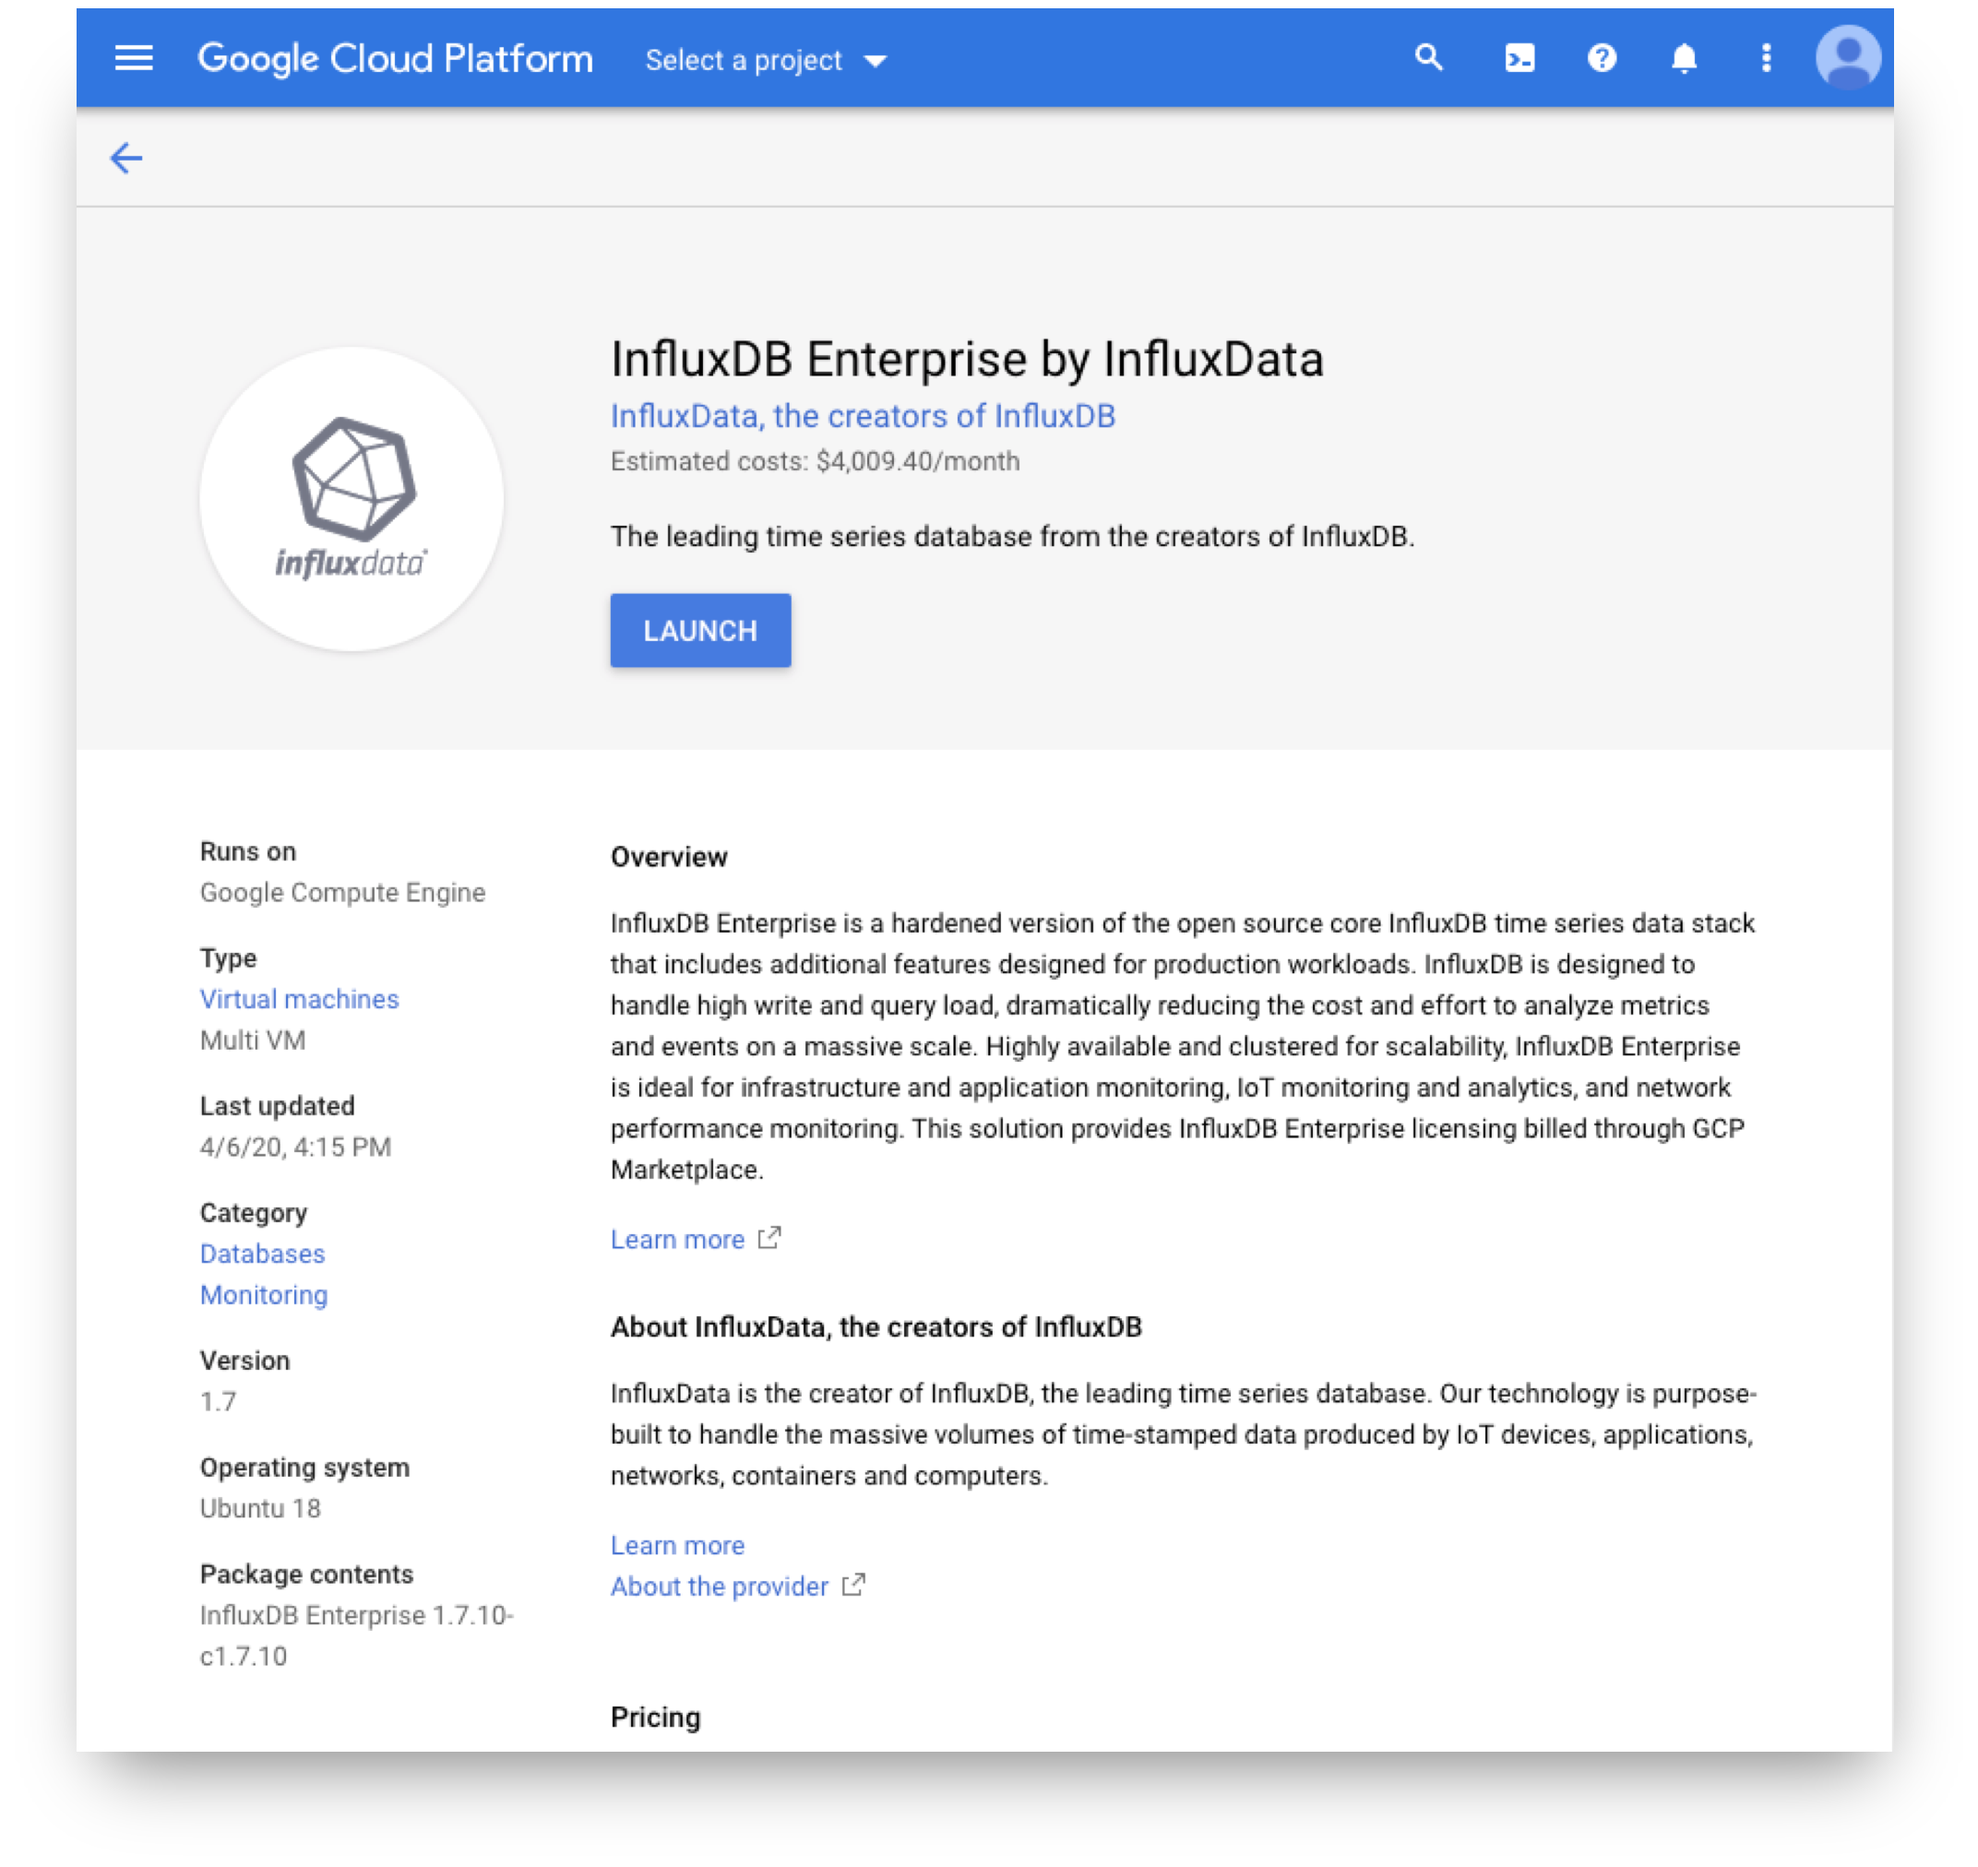
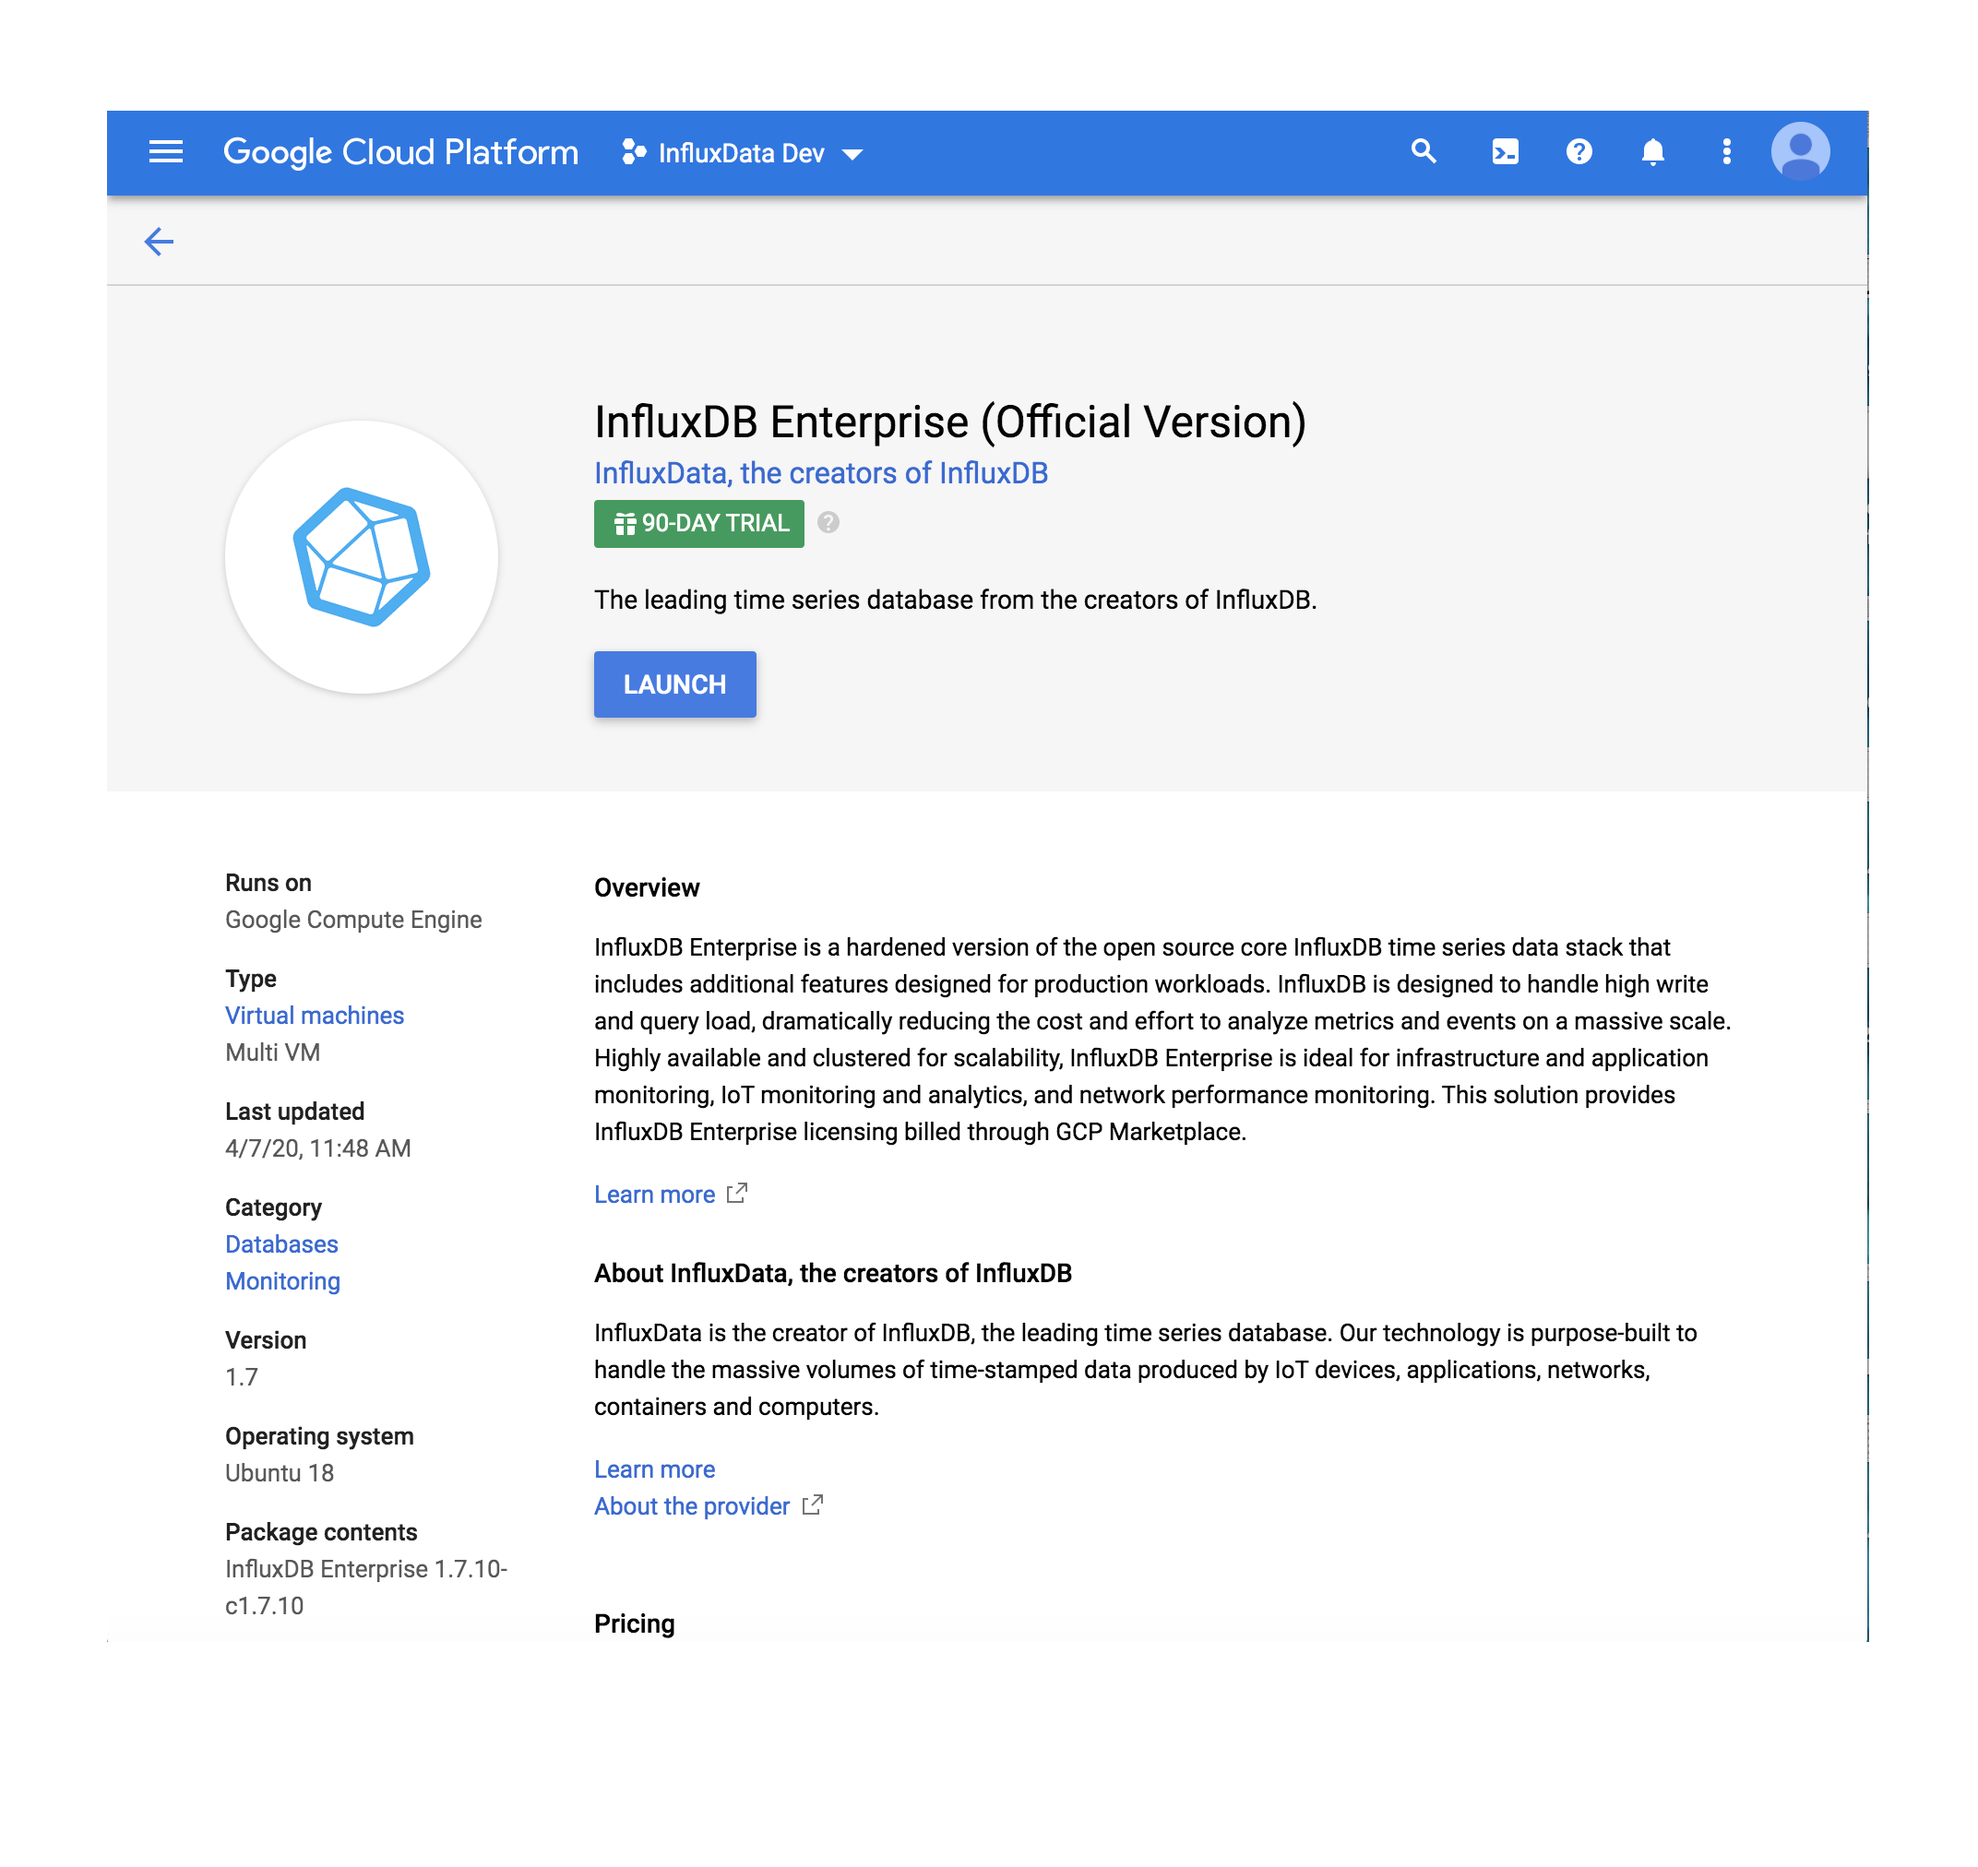
add new graphics for GCP enterprise

diff --git a/content/enterprise_influxdb/v1.7/install-and-deploy/google-cloud-platform.md b/content/enterprise_influxdb/v1.7/install-and-deploy/google-cloud-platform.md
@@ -28,22 +28,22 @@ Before deploying an InfluxDB Enterprise cluster on GCP, verify you have the foll
 
 ## Deploy a cluster
 
-1. Log in to your Google Cloud Platform account and go to [InfluxDB Enterprise by InfluxData](https://console.cloud.google.com/marketplace/details/influxdata-public/influxdb-enterprise-vm).
+1. Log in to your Google Cloud Platform account and go to [InfluxDB Enterprise](https://console.cloud.google.com/marketplace/details/influxdata-public/influxdb-enterprise-vm).
 
-     <!--![GCP InfluxDB Enterprise solution page](/img/enterprise/gcp/intro-1.png) -->
+    ![GCP InfluxDB Enterprise page](/img/enterprise/gcp/intro-1.png)
 
 2. Click **Launch** to create or select a project to open up your cluster's configuration page.
 
-    <!--![GCP InfluxDB Enterprise configuration page](/img/enterprise/gcp/intro-2.png) -->
+    ![GCP InfluxDB Enterprise configuration page](/img/enterprise/gcp/intro-2.png)
 
 3. Copy the InfluxDB Enterprise license key to the __InfluxDB Enterprise license key__ field or [sign up for a free InfluxDB Enterprise trial for GCP](https://portal.influxdata.com/users/gcp) to obtain a license key.
 
-4. Adjust other fields as needed. (Typically, fields in collapsed sections don't need to be altered.
+4. Adjust other fields as needed. (Typically, fields in collapsed sections don't need to be altered).
   The cluster is only accessible within the network (or subnetwork, if specified) where it's deployed.
 
 5. Click **Deploy** to launch the InfluxDB Enterprise cluster.
 
-  <!--![GCP InfluxDB Enterprise deployment pending page](/img/enterprise/gcp/intro-3.png) --> 
+  <!--![GCP InfluxDB Enterprise deployment pending page](/img/enterprise/gcp/intro-3.png) -->
 
 The cluster may take a few minutes to fully deploy. If the deployment does not complete or reports an error, read through the list of [common deployment errors](https://cloud.google.com/marketplace/docs/troubleshooting).
 
